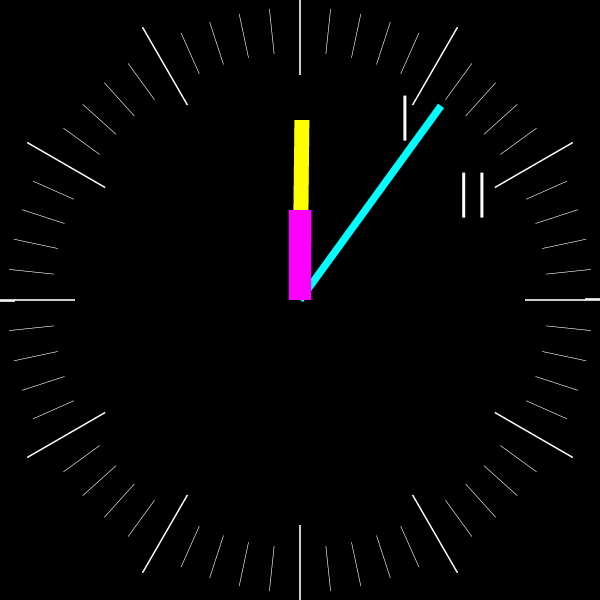
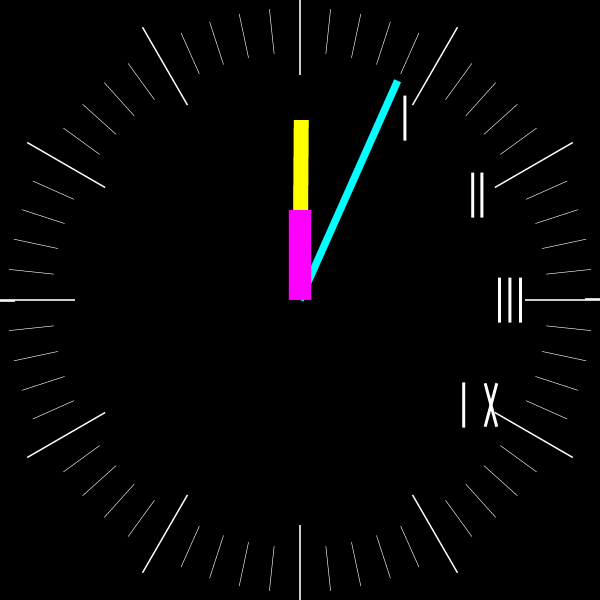
added code for X, functions needed for repeated code

diff --git a/Assignment-1/main.cpp b/Assignment-1/main.cpp
@@ -7,6 +7,7 @@ void rasterizeTick(SoftwareRasterizer*);
 void rasterizeClock(SoftwareRasterizer*, Uint32);
 void rasterizeClockGraduations(SoftwareRasterizer*);
 void rasterizeNumbers(SoftwareRasterizer*);
+void fillMarkingTranslate();
 
 int main(int argc, char* args[]) {
     int frameWidth = 600, frameHeight = 600;
@@ -29,6 +30,7 @@ int main(int argc, char* args[]) {
             rasterizeClock(&softwareRasterizer, displayTime);
             rasterizeClockGraduations(&softwareRasterizer);
             rasterizeNumbers(&softwareRasterizer);
+            fillMarkingTranslate();
             softwareRasterizer.drawFramebuffer();
             displayTime ++;
         }
@@ -170,6 +172,19 @@ void rasterizeClockGraduations(SoftwareRasterizer *pSoftwareRasterizer) {
     }
 
 }
+glm::mat4 markingTranslates[12];
+
+
+void fillMarkingTranslate(){
+    float markingRadius = 0.70f;
+    glm::mat4 markingScale1 = glm::scale(glm::mat4(1.0f), glm::vec3(0.01, 0.15, 0.15));
+    float markingAngle1 = glm::radians(30.0f);
+    glm::vec3 markingCenterCoordinate1(markingRadius * glm::sin(markingAngle1), markingRadius * glm::cos(markingAngle1), 0.0f);
+    glm::mat4 markingTranslate1 = glm::translate(glm::mat4(1.0f), markingCenterCoordinate1);
+    markingTranslates[0] = markingTranslate1;
+
+}
+
 
 void rasterizeNumbers(SoftwareRasterizer *pSoftwareRasterizer) {
     
@@ -187,28 +202,104 @@ glm::vec4 unitSquare[] = {
         glm::vec4(1.0, 1.0, 1.0, 1.0),
         glm::vec4(1.0, 1.0, 1.0, 1.0)
     };
+
     float markingRadius = 0.70f;
-    glm::mat4 markingScale1 = glm::scale(glm::mat4(1.0f), glm::vec3(0.01, 0.15, 0.15));
-    float markingAngle1 = glm::radians(30.0f);
-    glm::vec3 markingCenterCoordinate1(markingRadius * glm::sin(markingAngle1), markingRadius * glm::cos(markingAngle1), 0.0f);
-    glm::mat4 markingTranslate1 = glm::translate(glm::mat4(1.0f), markingCenterCoordinate1);
-    pSoftwareRasterizer->setCustom2d(markingTranslate1 * markingScale1);
+
+    // I
+    glm::mat4 markingScale = glm::scale(glm::mat4(1.0f), glm::vec3(0.01, 0.15, 0.15));
+    pSoftwareRasterizer->setCustom2d(markingTranslates[0] * markingScale);
     pSoftwareRasterizer->rasterizeArbitraryShape2D(unitSquare, indices, markingColor, 2);
 
-
-
-    glm::mat4 markingScale2 = glm::scale(glm::mat4(1.0f), glm::vec3(0.01, 0.15, 0.15));
+    // II
+    
     float markingAngle2 = glm::radians(60.0f);
-    glm::vec3 markingCenterCoordinate2((markingRadius * glm::sin(markingAngle2)*0.9) , markingRadius * glm::cos(markingAngle2), 0.0f);
+    glm::vec3 markingCenterCoordinate2((markingRadius * glm::sin(markingAngle2)*0.95) , markingRadius * glm::cos(markingAngle2), 0.0f);
     glm::mat4 markingTranslate2 = glm::translate(glm::mat4(1.0f), markingCenterCoordinate2);
-    pSoftwareRasterizer->setCustom2d(markingTranslate2 * markingScale2);
+    pSoftwareRasterizer->setCustom2d(markingTranslate2 * markingScale);
     pSoftwareRasterizer->rasterizeArbitraryShape2D(unitSquare, indices, markingColor, 2);
-
 
     glm::vec3 markingCenterCoordinate3(markingRadius * glm::sin(markingAngle2) , markingRadius * glm::cos(markingAngle2), 0.0f);
     glm::mat4 markingTranslate3 = glm::translate(glm::mat4(1.0f), markingCenterCoordinate3);
-    pSoftwareRasterizer->setCustom2d(markingTranslate3 * markingScale2);
+    pSoftwareRasterizer->setCustom2d(markingTranslate3 * markingScale);
     pSoftwareRasterizer->rasterizeArbitraryShape2D(unitSquare, indices, markingColor, 2);
+
+
+
+    //III
+    float markingAngle3 = glm::radians(90.0f);
+    glm::vec3 markingCenterCoordinate4((markingRadius * glm::sin(markingAngle3)*0.95) , markingRadius * glm::cos(markingAngle3), 0.0f);
+    glm::mat4 markingTranslate4 = glm::translate(glm::mat4(1.0f), markingCenterCoordinate4);
+    pSoftwareRasterizer->setCustom2d(markingTranslate4 * markingScale);
+    pSoftwareRasterizer->rasterizeArbitraryShape2D(unitSquare, indices, markingColor, 2);
+
+    glm::vec3 markingCenterCoordinate5(markingRadius * glm::sin(markingAngle3) , markingRadius * glm::cos(markingAngle3), 0.0f);
+    glm::mat4 markingTranslate5 = glm::translate(glm::mat4(1.0f), markingCenterCoordinate5);
+    pSoftwareRasterizer->setCustom2d(markingTranslate5 * markingScale);
+    pSoftwareRasterizer->rasterizeArbitraryShape2D(unitSquare, indices, markingColor, 2);
+
+
+    glm::vec3 markingCenterCoordinate6((markingRadius * glm::sin(markingAngle3)*1.05) , markingRadius * glm::cos(markingAngle3), 0.0f);
+    glm::mat4 markingTranslate6 = glm::translate(glm::mat4(1.0f), markingCenterCoordinate6);
+    pSoftwareRasterizer->setCustom2d(markingTranslate6 * markingScale);
+    pSoftwareRasterizer->rasterizeArbitraryShape2D(unitSquare, indices, markingColor, 2);
+
+
+    glm::mat4 markingRotate1 = glm::rotate(glm::mat4(1.0f), glm::radians(-15.f), glm::vec3(0.0, 0.0, -1.0));
+    glm::mat4 markingRotate2 = glm::rotate(glm::mat4(1.0f), glm::radians(15.f), glm::vec3(0.0, 0.0, -1.0));
+
+    
+    // IV
+    float markingAngle4 = glm::radians(120.0f);
+
+    glm::vec3 markingCenterCoordinate7((markingRadius * glm::sin(markingAngle4)*0.90) , markingRadius * glm::cos(markingAngle4), 0.0f);
+    glm::mat4 markingTranslate7 = glm::translate(glm::mat4(1.0f), markingCenterCoordinate7);
+    pSoftwareRasterizer->setCustom2d(markingTranslate7 * markingScale);
+    pSoftwareRasterizer->rasterizeArbitraryShape2D(unitSquare, indices, markingColor, 2);
+
+
+    glm::vec3 markingCenterCoordinate8((markingRadius * glm::sin(markingAngle4))*1.05 , markingRadius * glm::cos(markingAngle4), 0.0f);
+    glm::mat4 markingTranslate8 = glm::translate(glm::mat4(1.0f), markingCenterCoordinate8);
+    pSoftwareRasterizer->setCustom2d(markingTranslate8 * markingRotate2* markingScale);
+    pSoftwareRasterizer->rasterizeArbitraryShape2D(unitSquare, indices, markingColor, 2);
+
+    glm::vec3 markingCenterCoordinate9((markingRadius * glm::sin(markingAngle4))*1.05, markingRadius * glm::cos(markingAngle4), 0.0f);
+    glm::mat4 markingTranslate9 = glm::translate(glm::mat4(1.0f), markingCenterCoordinate9);
+    pSoftwareRasterizer->setCustom2d(markingTranslate9 * markingRotate1* markingScale);
+    pSoftwareRasterizer->rasterizeArbitraryShape2D(unitSquare, indices, markingColor, 2);
+
+
+
+
+    // IX
+    float markingAngle9 = glm::radians(270.f);
+
+    // glm::vec3 markingCenterCoordinate9((markingRadius * glm::sin(markingAngle9)*0.95) , markingRadius * glm::cos(markingAngle9), 0.0f);
+    // glm::mat4 markingTranslate9 = glm::translate(glm::mat4(1.0f), markingCenterCoordinate9);
+    // pSoftwareRasterizer->setCustom2d(markingTranslate9 * markingScale);
+    // pSoftwareRasterizer->rasterizeArbitraryShape2D(unitSquare, indices, markingColor, 2);
+
+
+    // glm::vec3 markingCenterCoordinate7((markingRadius * glm::sin(markingAngle9)*0.90) , markingRadius * glm::cos(markingAngle9), 0.0f);
+    // glm::mat4 markingTranslate7 = glm::translate(glm::mat4(1.0f), markingCenterCoordinate7);
+    // pSoftwareRasterizer->setCustom2d(markingTranslate7 * markingRotate1* markingScale);
+    // pSoftwareRasterizer->rasterizeArbitraryShape2D(unitSquare, indices, markingColor, 2);
+
+    // pSoftwareRasterizer->setCustom2d(markingTranslate7 * markingRotate2* markingScale);
+    // pSoftwareRasterizer->rasterizeArbitraryShape2D(unitSquare, indices, markingColor, 2);
+
+
+    // X 
+    // glm::vec3 markingCenterCoordinate7((markingRadius * glm::sin(markingAngle9)*0.90) , markingRadius * glm::cos(markingAngle9), 0.0f);
+    // glm::mat4 markingTranslate7 = glm::translate(glm::mat4(1.0f), markingCenterCoordinate7);
+    // pSoftwareRasterizer->setCustom2d(markingTranslate7 * markingRotate1* markingScale);
+    // pSoftwareRasterizer->rasterizeArbitraryShape2D(unitSquare, indices, markingColor, 2);
+
+    // pSoftwareRasterizer->setCustom2d(markingTranslate7 * markingRotate2* markingScale);
+    // pSoftwareRasterizer->rasterizeArbitraryShape2D(unitSquare, indices, markingColor, 2);
+
+
+    
+
 
 
 
